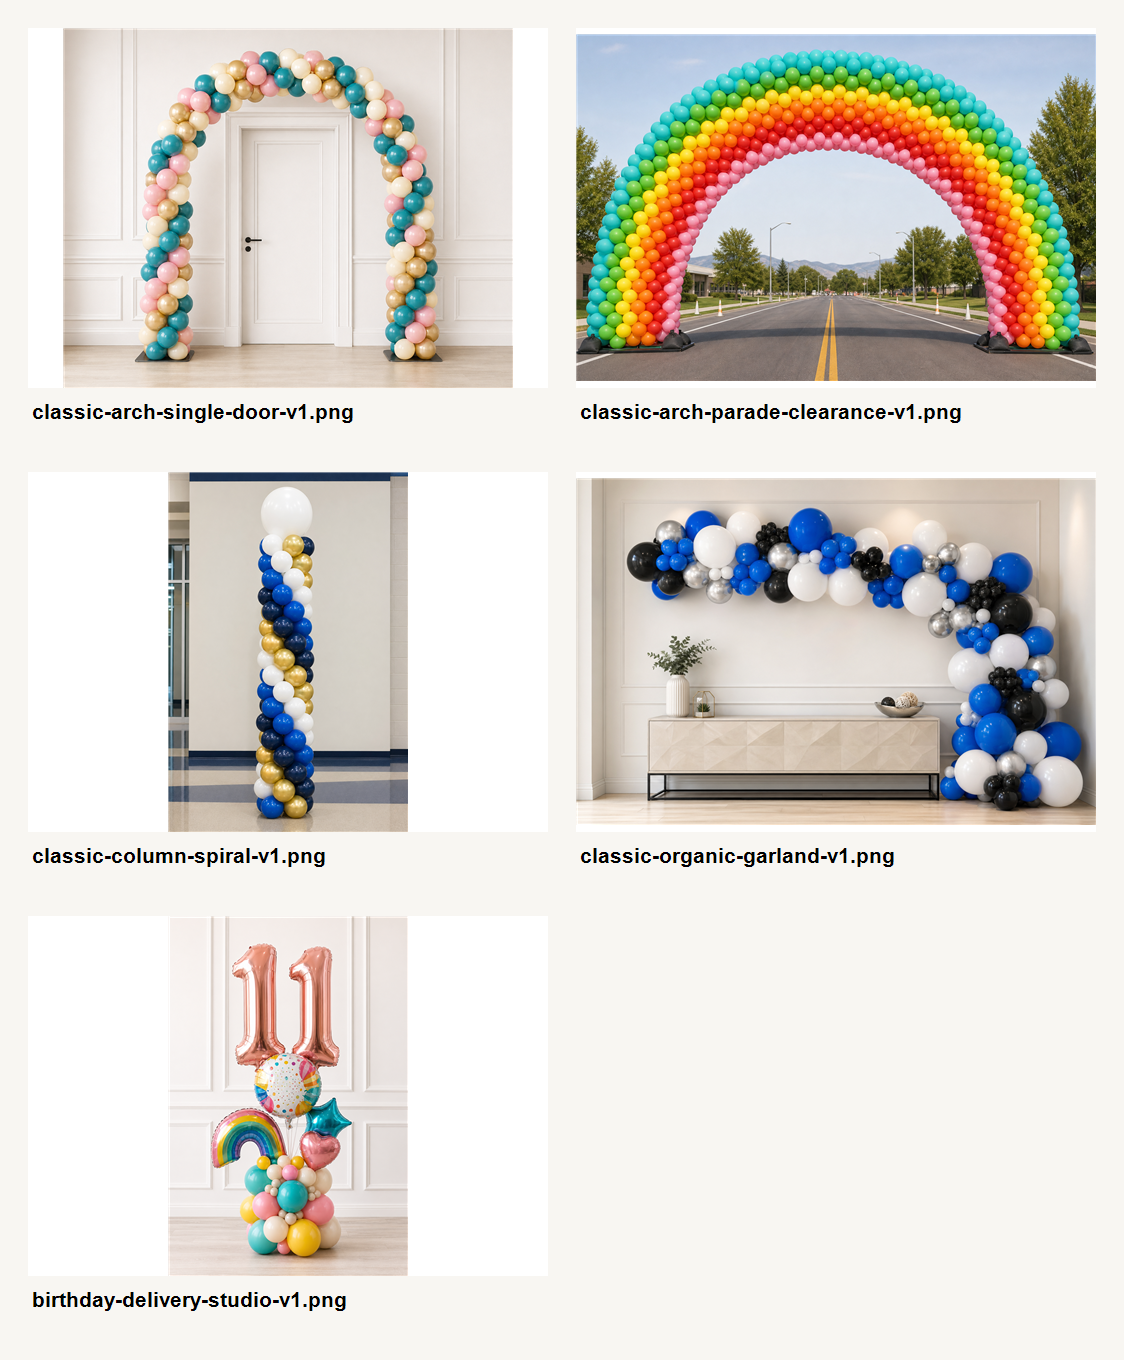
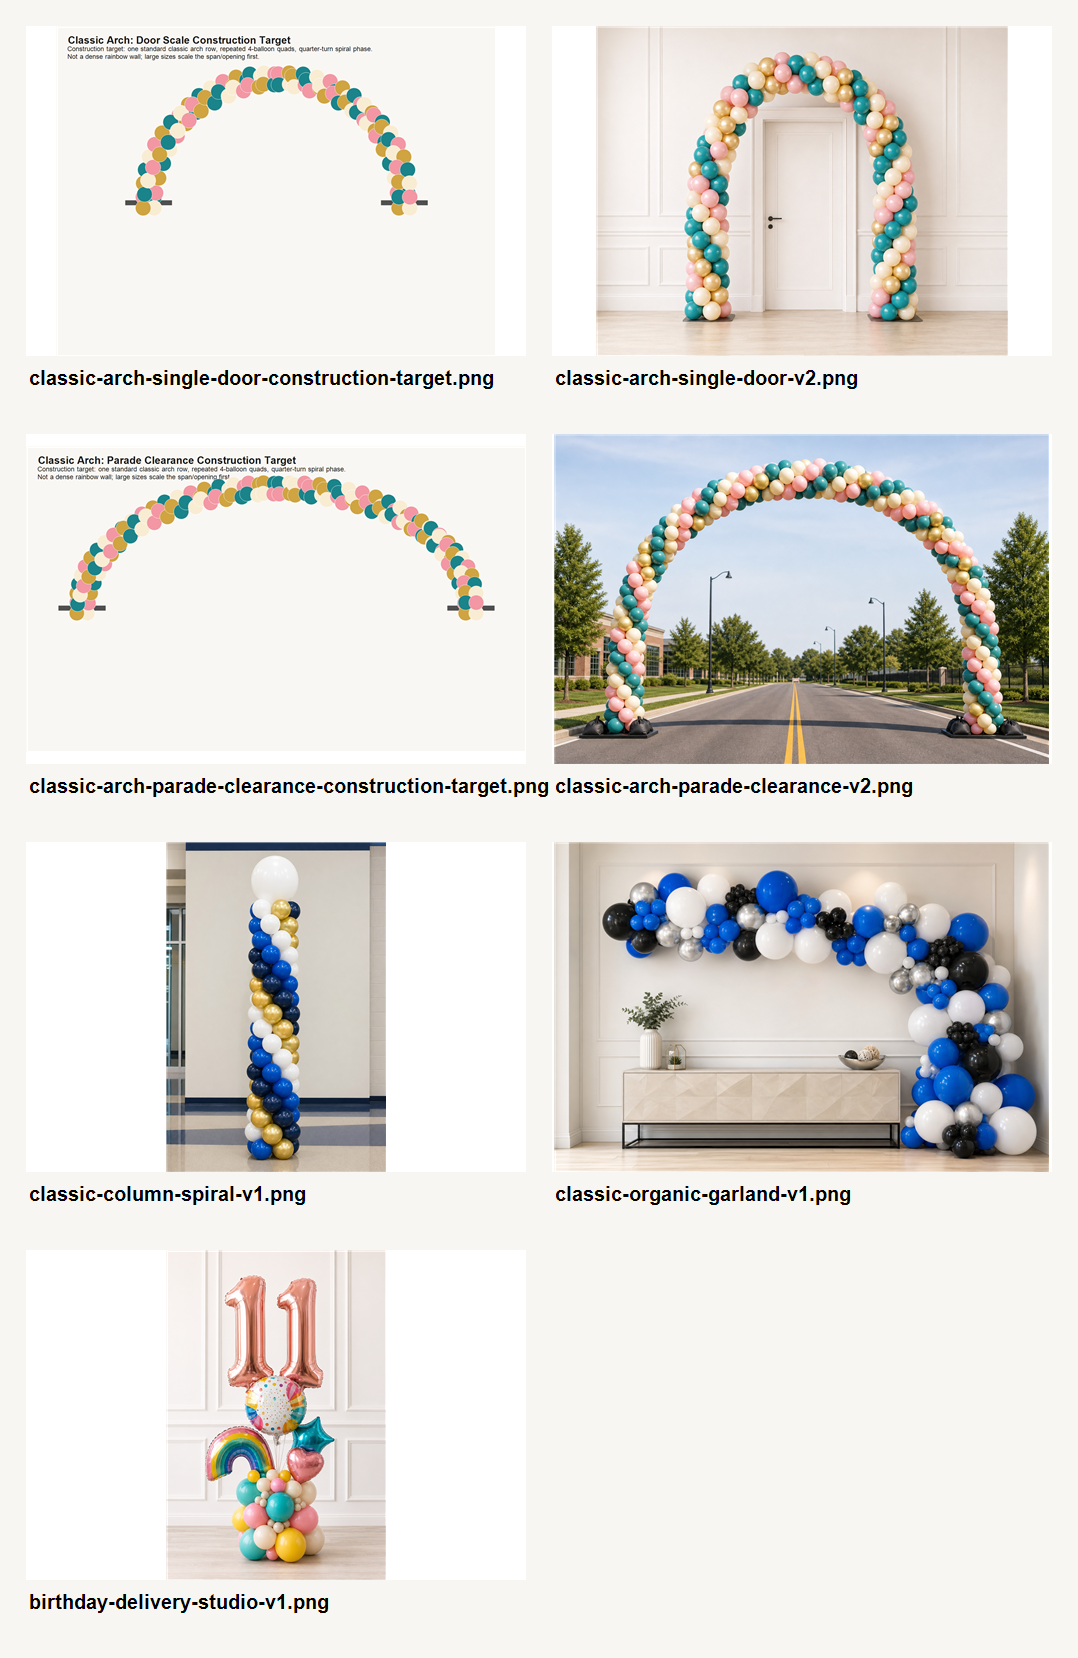
Refine classic arch pilot direction

diff --git a/docs/superpowers/specs/2026-05-01-balloon-render-pilot-show-pack.md b/docs/superpowers/specs/2026-05-01-balloon-render-pilot-show-pack.md
@@ -43,6 +43,12 @@ Use a consistent, premium LT-compatible background system:
 
 All generated images should be treated as illustrative unless they are explicitly real LT installs. Do not use generated images as proof images.
 
+## GL Feedback Incorporated: Classic Arch Density
+
+Classic arch scale changes the span and opening, not the default construction density. A parade-clearance classic arch should usually be the same classic quad/spiral build logic as a doorway classic arch, only larger and properly anchored.
+
+Dense layered rainbow arches are a separate custom/high-density direction unless the customer explicitly orders that density. Do not use the dense rainbow wall look as the default `classic-arch` render for large sizes.
+
 ## Prompt 1: Classic Arch, Single-Door Scale
 
 Product target:
@@ -55,18 +61,19 @@ Product target:
 Prompt:
 
 ```text
-Create a realistic premium product render of a classic balloon arch for Locally Twisted, built for a single standard doorway or narrow event entrance. The arch is a classic spiral construction made from tightly packed 4-balloon latex clusters on a concealed monofilament/frame line. Use uniform 11-inch round balloons, with each cluster packed solidly against the next. The spiral pattern must be readable: each cluster advances the contrast color by one quarter turn, creating a clean diagonal candy-stripe effect across the arch, not random color scatter.
+Create a realistic premium product render of a classic balloon arch for Locally Twisted, built for a single standard doorway or narrow event entrance. The arch is a traditional classic spiral construction made from repeated 4-balloon latex clusters on a concealed monofilament/frame line. Use uniform 11-inch round balloons. The arch should read as one standard classic arch row, not a thick wall of balloons. The spiral pattern must be readable: each cluster advances the contrast color by one quarter turn, creating a clean diagonal candy-stripe effect across the arch, not random color scatter.
 
 Use 3 or 4 coordinated colors from a polished event palette: teal, soft cream, blush pink, and reflex gold. Keep balloon size uniform because this is classic, not organic. Show subtle but believable support logic at the two bases: small low-profile weighted bases or plates, partially hidden by balloon clusters. The arch opening should clearly fit one standard doorway with comfortable head clearance.
 
 Set the arch in a clean professional venue mockup with a warm white wall, simple doorway outline, pale neutral floor, and soft commercial catalog lighting. Product centered, straight-on three-quarter camera, enough negative space around the arch for ecommerce cropping. The image should feel more polished and business-capable than a casual party photo while still looking physically buildable by a professional balloon decorator.
 
-Negative constraints: no floating unsupported arch, no organic mixed-size balloons, no random confetti color placement, no impossible twisting, no toy plastic shine, no tiny doorway opening, no messy background, no fake brand text, no people.
+Negative constraints: no floating unsupported arch, no organic mixed-size balloons, no thick multi-row balloon wall, no random confetti color placement, no impossible twisting, no toy plastic shine, no tiny doorway opening, no messy background, no fake brand text, no people.
 ```
 
 Hard review checks:
 
 - The arch must read as classic quad/spiral work, not organic garland.
+- It must not be thicker than the default classic product.
 - Door scale must be obvious without feeling miniature.
 - Bases/support must be believable but not visually dominant.
 
@@ -76,25 +83,25 @@ Product target:
 
 - `classic-arch`
 - Size interpretation: the highest-scale option, visually equivalent to parade/truck-clearance usage.
-- Design: Layered/rainbow bands.
+- Design: Swirl, up to 4 colors. Layered/rainbow density belongs to custom/high-density work, not the default classic-arch size render.
 - Use: size-specific variant image, not generic template lead.
 
 Prompt:
 
 ```text
-Create a realistic premium product render of a very large classic balloon arch for Locally Twisted, scaled for a parade route or vehicle-clearance entrance where two trucks could pass under it. The arch is a professional air-filled classic balloon structure, not helium floating. It uses repeated rows of tightly packed uniform latex balloon clusters on a strong hidden frame, with clearly anchored feet on both sides.
+Create a realistic premium product render of a very large classic balloon arch for Locally Twisted, scaled for a parade route or vehicle-clearance entrance where two trucks could pass under it. The arch is a professional air-filled classic balloon structure, not helium floating. It uses the same default classic quad/spiral build logic as a doorway classic arch, scaled wider and taller on a strong hidden frame, with clearly anchored feet on both sides. It should not become a dense multi-row rainbow wall unless ordered as custom high-density decor.
 
-Use a layered rainbow-band design inspired by Jeff's real large outdoor arch: clean concentric bands of turquoise, green, yellow, orange, red, and blush-pink balloons. Each band should have consistent spacing and uniform balloon size. The opening must be very wide and tall, with a subtle scale cue such as a marked parade street, distant curb, or small neutral traffic cones near the base. Do not include readable event signage or brand text.
+Use a clean classic spiral pattern with 3 or 4 coordinated colors such as teal, soft cream, blush pink, and reflex gold. Each cluster should look like a uniform 4-balloon quad and rotate one quarter turn per cluster. The opening must be very wide and tall, with a subtle scale cue such as a marked parade street, distant curb, or small neutral traffic cones near the base. Do not include readable event signage or brand text.
 
 Set the scene in a controlled professional outdoor venue mockup: clean parade street or school/city event approach, bright but soft daylight, pale neutral sky, minimal background distraction. The arch should dominate the frame, centered and symmetrical, with enough margin for ecommerce crop. Support plates, sandbagged bases, or low frame anchors should be visible enough to make the structure believable.
 
-Negative constraints: no unsupported floating arch, no narrow doorway scale, no random balloon sizes, no chaotic confetti colors, no ambiguous arch opening, no crowd, no vehicles blocking the product, no generated text, no impossible wind-blown structure.
+Negative constraints: no unsupported floating arch, no narrow doorway scale, no dense rainbow wall unless custom, no random balloon sizes, no chaotic confetti colors, no ambiguous arch opening, no crowd, no vehicles blocking the product, no generated text, no impossible wind-blown structure.
 ```
 
 Hard review checks:
 
 - The scale must not be confused with a doorway arch.
-- The layered bands must stay clean and consistent.
+- The large arch must keep default classic-arch build density unless explicitly custom.
 - Anchoring must be visible enough that Jeff would not reject the physics.
 
 ## Prompt 3: Classic Column, Spiral With Topper

diff --git a/_resources/generated-renders/pilot/README.md b/_resources/generated-renders/pilot/README.md
@@ -9,11 +9,22 @@ These images are generated illustrative drafts for GL/Jeff review. They are not 
 | File | Status | Notes |
 |---|---|---|
 | `pilot-contact-sheet.png` | show sheet | One-page visual overview of the five draft directions. |
-| `classic-arch-single-door-v1.png` | revise before production | Strong studio/backdrop direction, but the visible classic 4-balloon spiral math is still softer than ideal. Use this to discuss look and scale, not as construction-approved art. |
-| `classic-arch-parade-clearance-v1.png` | promising draft | Strong scale and anchoring direction. Needs Jeff/GL check that the layered rows feel buildable enough for the large-arch product. |
+| `classic-arch-single-door-construction-target.png` | construction reference | Deterministic reference for the default classic arch: one standard row, repeated 4-balloon quads, quarter-turn color phase. Use this to judge future realistic renders. |
+| `classic-arch-parade-clearance-construction-target.png` | construction reference | Same default classic arch build logic as the doorway target, scaled wider/taller for parade clearance. |
+| `classic-arch-single-door-v1.png` | rejected for construction | Backdrop direction is useful, but the arch reads too soft/random and not strict enough as classic 4-balloon quad/spiral work. |
+| `classic-arch-parade-clearance-v1.png` | rejected for product fit | Scale and anchoring are useful, but the dense layered rainbow look is not the default classic-arch product. That density belongs to custom/high-density work beyond color. |
+| `classic-arch-single-door-v2.png` | closer but not approved | Better density and backdrop, but still needs GL/Jeff review against the construction target before production use. |
+| `classic-arch-parade-clearance-v2.png` | closer but not approved | Better product fit than v1 because it is not a dense rainbow wall. Still needs stricter quad/spiral validation. |
 | `classic-column-spiral-v1.png` | promising draft | Reads as a classic spiral column with topper. Needs Jeff/GL check for exact 4-balloon quad rhythm and topper/base realism. |
-| `classic-organic-garland-v1.png` | promising draft | Good organic size mix and color-mass direction. Needs Jeff/GL check for rigging plausibility and whether the setting feels too staged. |
+| `classic-organic-garland-v1.png` | possible but uncertain | Good organic size mix and color-mass direction, but Jeff may not agree with the staged setting or exact shape. Needs GL/Jeff review before any use. |
 | `birthday-delivery-studio-v1.png` | promising draft | Strong studio catalog direction. Needs Jeff/GL check for delivery construction and whether the number/theme should be more generic or variant-specific. |
+
+## GL Feedback Incorporated
+
+- The column is the closest first-pass draft.
+- The organic garland is doable, but not yet assumed acceptable.
+- The doorway arch needs a stricter classic quad/spiral construction prompt.
+- The parade-clearance arch should use the same default classic build as the doorway arch, scaled wider/taller. Extra density is a custom product decision beyond color choice.
 
 ## Review Standard
 
